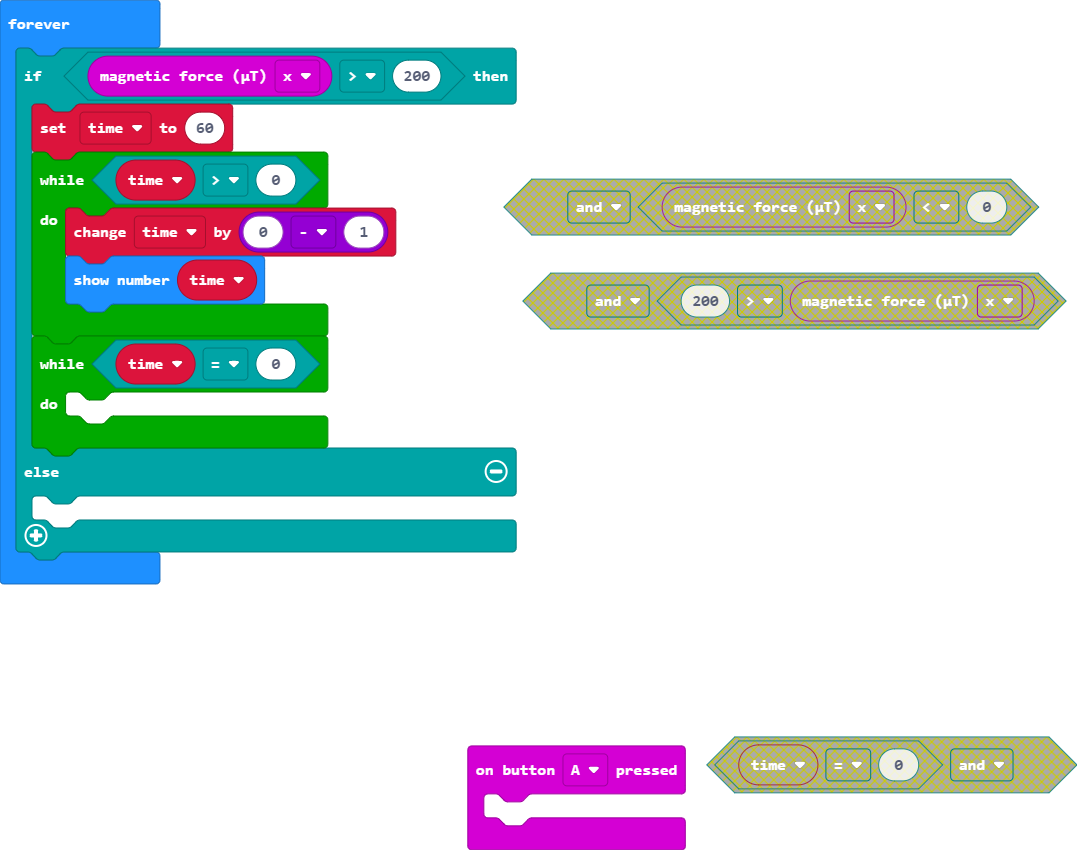
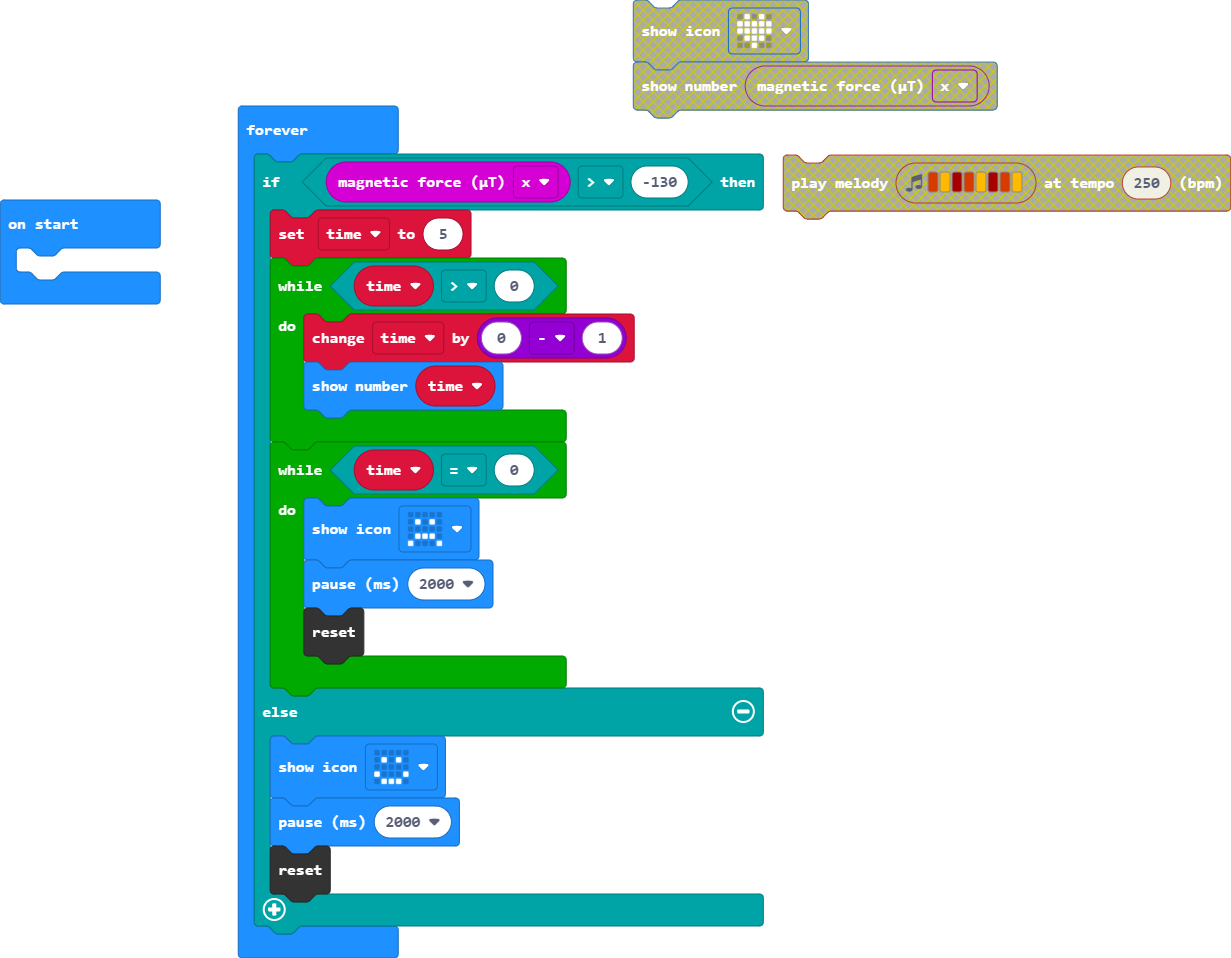
Update main.blocks, main.ts

diff --git a/main.ts b/main.ts
@@ -1,18 +1,19 @@
 let time = 0
-input.onButtonPressed(Button.A, function () {
-	
-})
 basic.forever(function () {
-    if (input.magneticForce(Dimension.X) > 200) {
-        time = 60
+    if (input.magneticForce(Dimension.X) > -130) {
+        time = 5
         while (time > 0) {
             time += 0 - 1
             basic.showNumber(time)
         }
         while (time == 0) {
-        	
+            basic.showIcon(IconNames.Sad)
+            basic.pause(2000)
+            control.reset()
         }
     } else {
-    	
+        basic.showIcon(IconNames.Happy)
+        basic.pause(2000)
+        control.reset()
     }
 })
